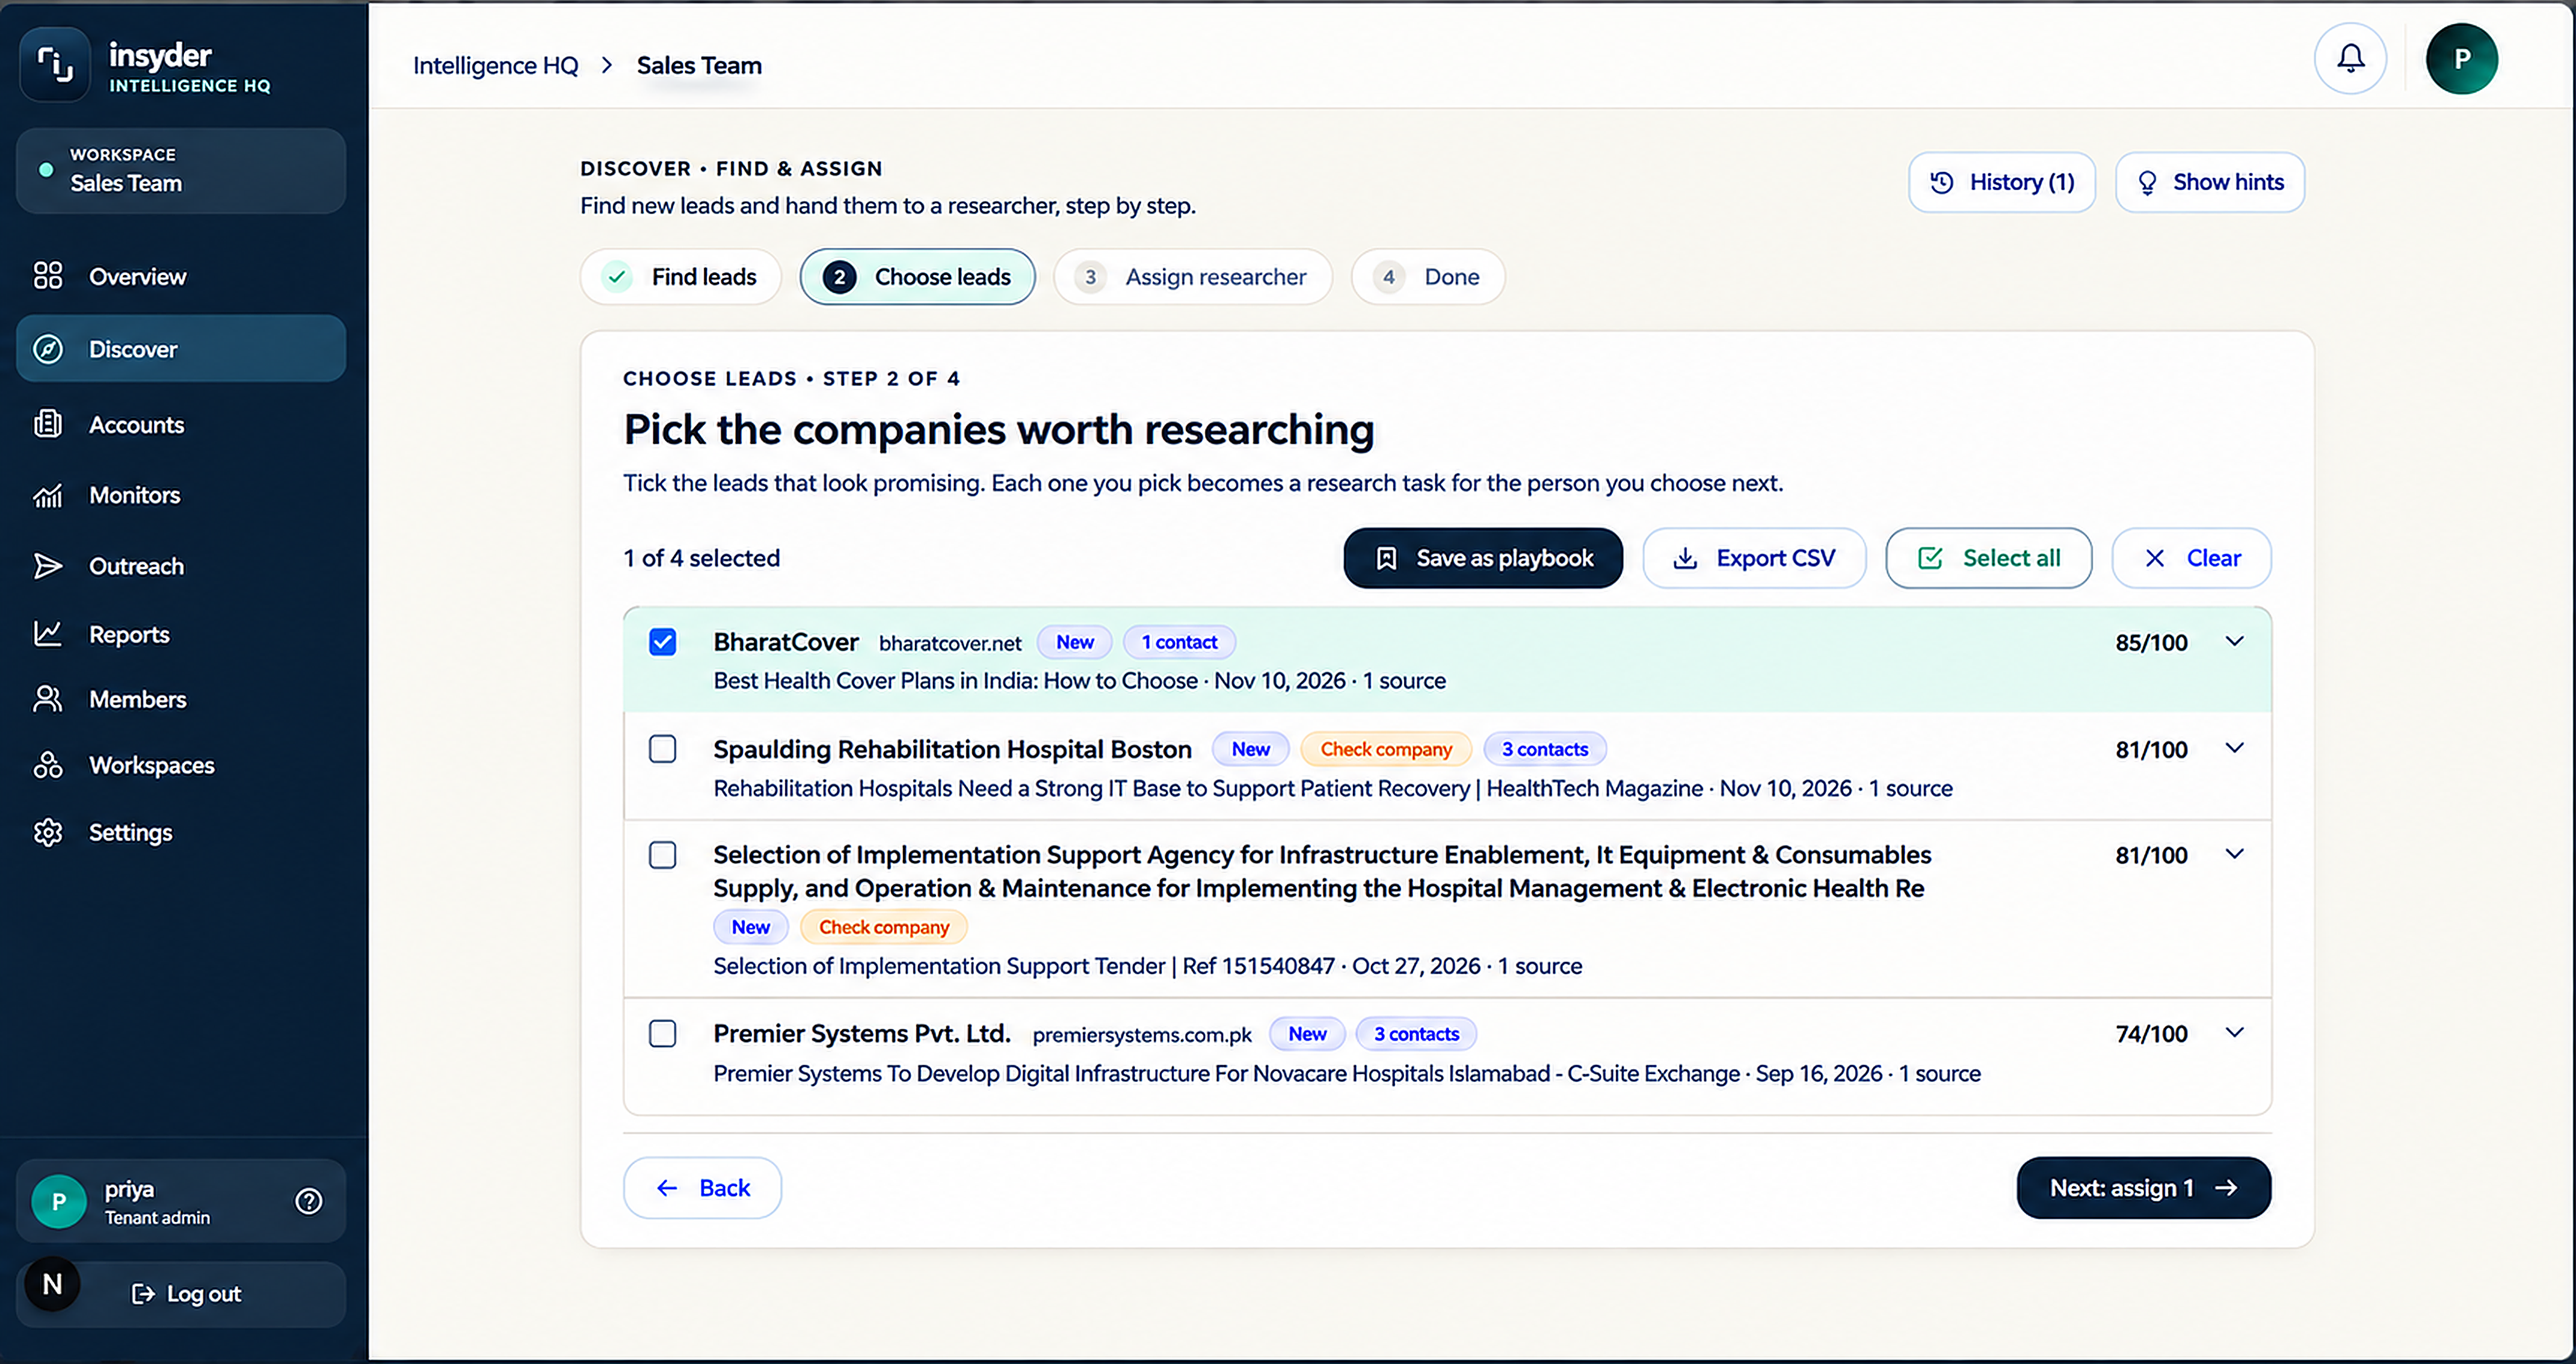
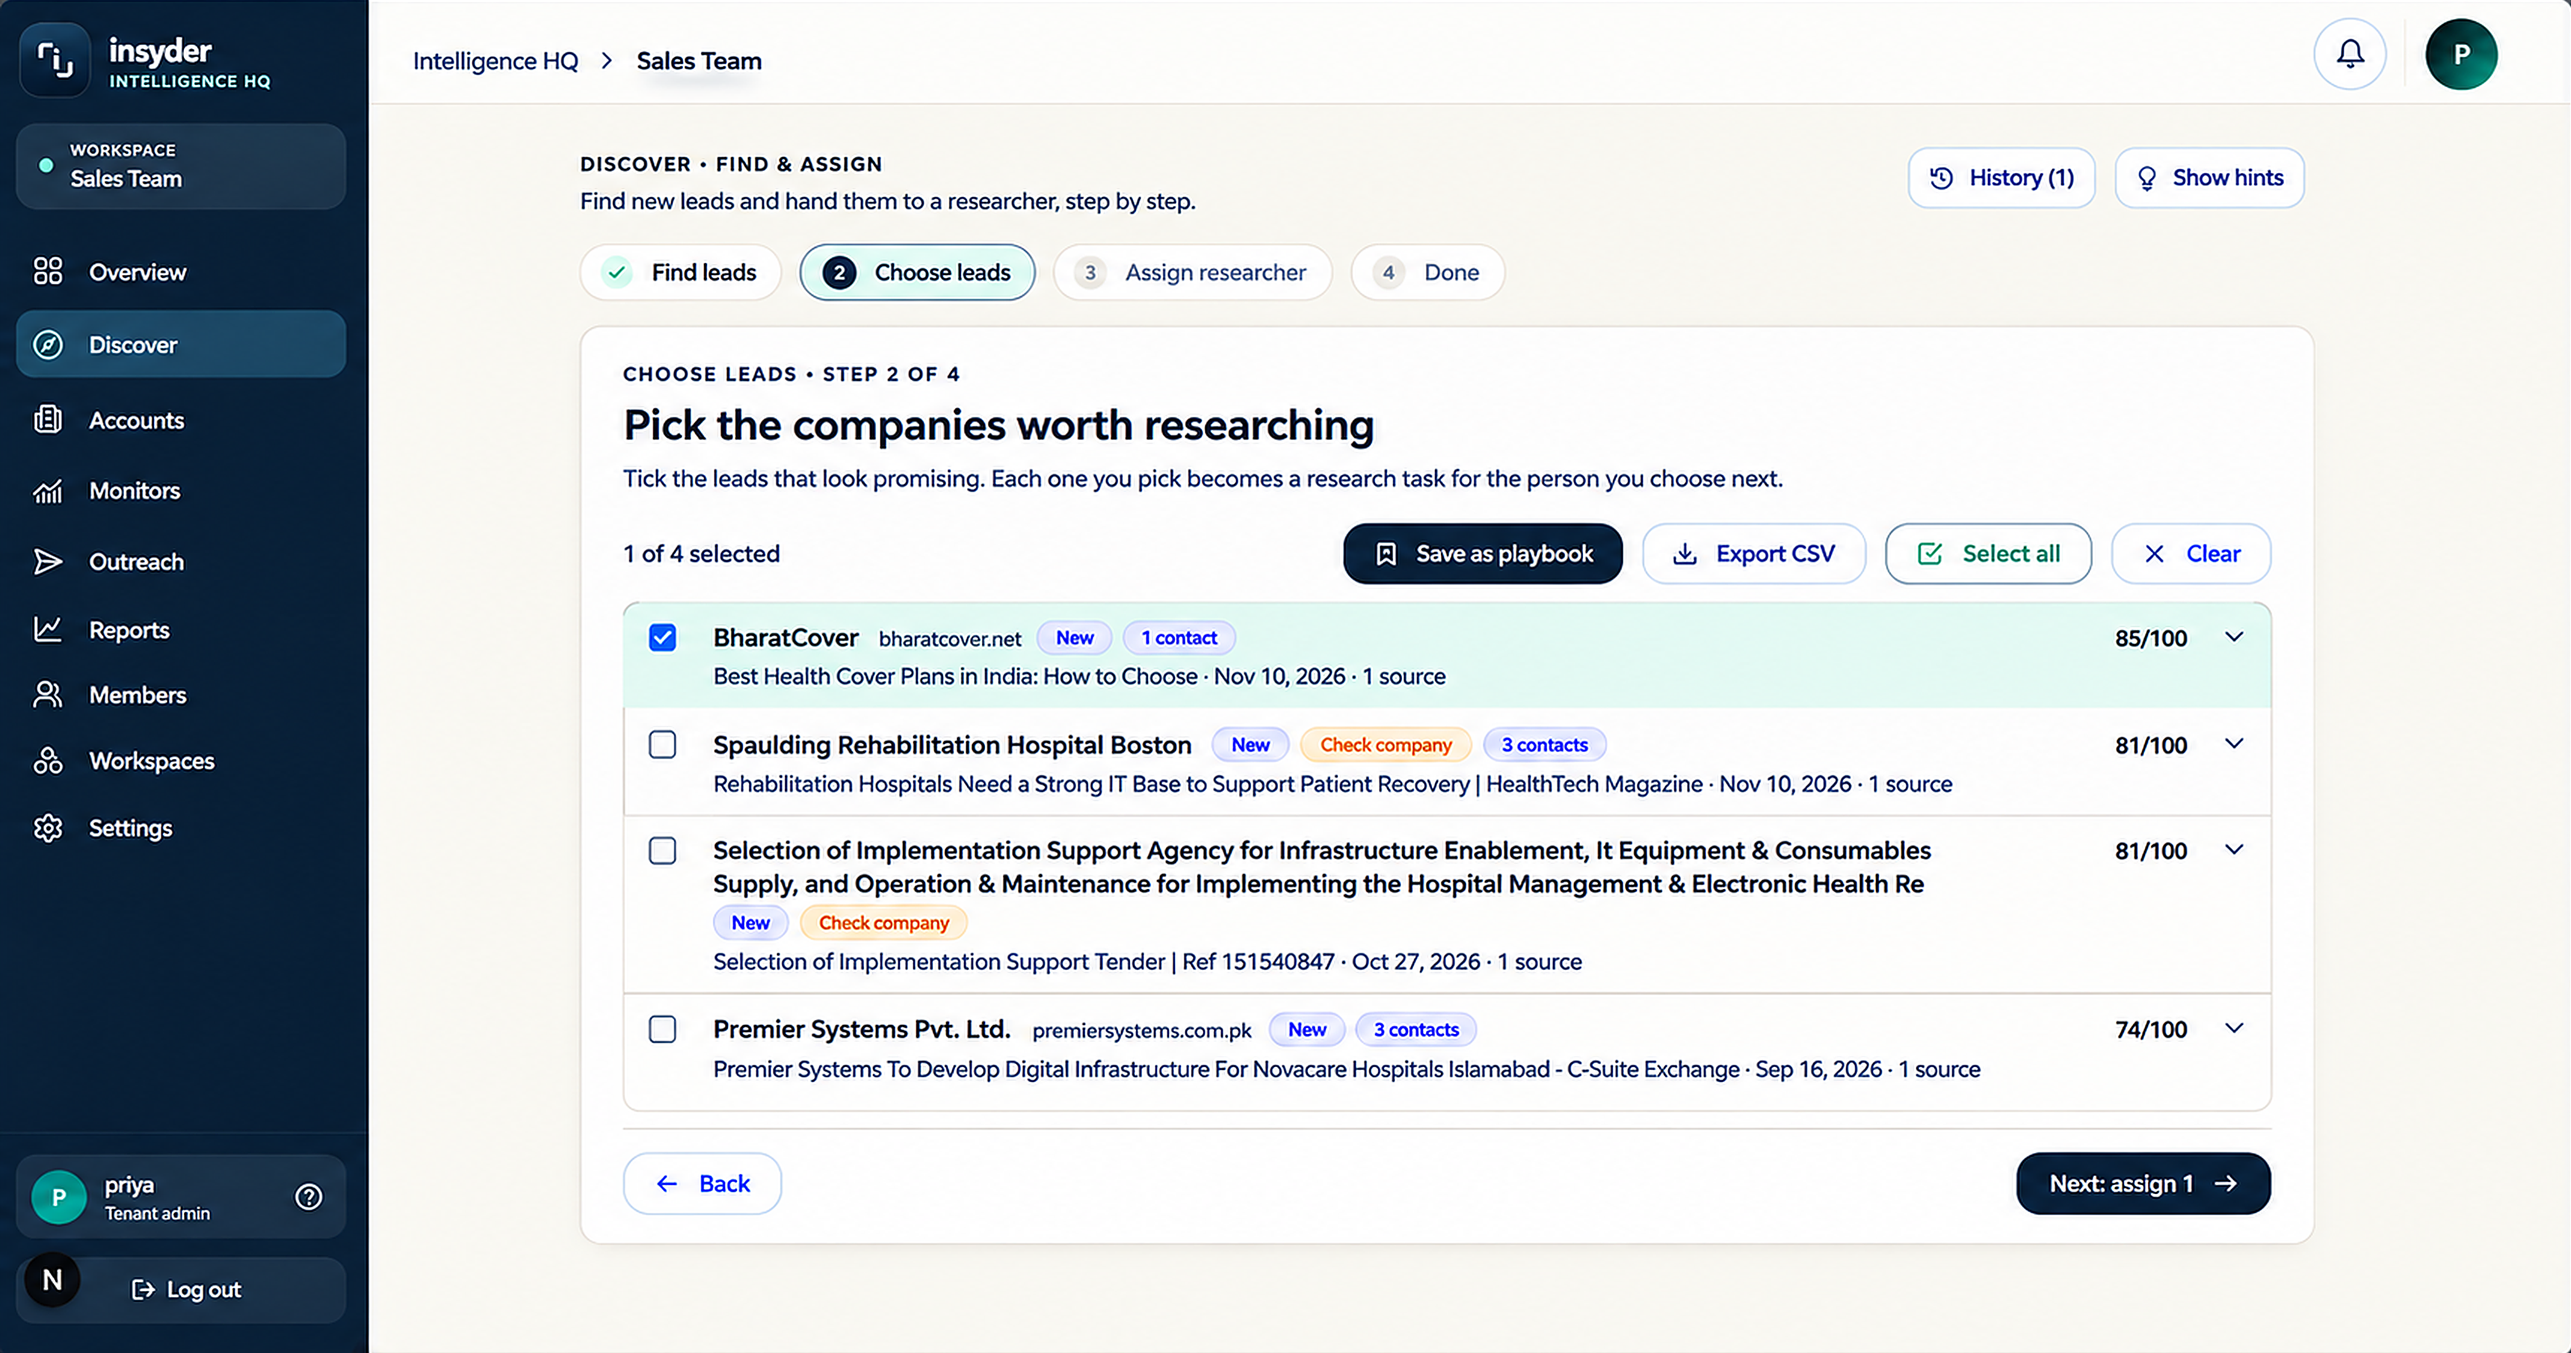
Remove window border lines around discover screenshot

diff --git a/frontend/src/app/globals.css b/frontend/src/app/globals.css
@@ -63,7 +63,7 @@ a{color:#7FD3CB}a:hover{color:#fff}
 .strip li{font-family:var(--font-schibsted),sans-serif;font-weight:700;font-size:21px;letter-spacing:-0.02em;color:#34404F}
 
 /* app frame */
-.frame-wrap{overflow-x:auto;border-radius:14px;box-shadow:0 50px 100px -40px rgba(13,27,42,.6);border:1px solid #CFC7B5;background:#F5F2EA}
+.frame-wrap{overflow:hidden;border-radius:14px;box-shadow:0 50px 100px -40px rgba(13,27,42,.6);border:1px solid #CFC7B5;background:#F5F2EA}
 .dk .frame-wrap{border-color:rgba(255,255,255,.14)}
 .ap{display:grid;grid-template-columns:184px minmax(0,1fr);min-width:1040px;height:560px;font-size:13px;line-height:1.45;color:#0D1B2A}
 .ap.tall{height:600px}

diff --git a/frontend/src/app/page.tsx b/frontend/src/app/page.tsx
@@ -45,8 +45,8 @@ export default function HomePage() {
                 <Image
                   src="/discover.png"
                   alt="Insyder Discover screen, Choose leads step: four companies found, each with its signal, date, sources and a score out of 100, ready to assign to a researcher."
-                  width={3446}
-                  height={1826}
+                  width={3440}
+                  height={1811}
                   sizes="(max-width: 1240px) 100vw, 1200px"
                   priority
                   style={{ display: "block", width: "100%", height: "auto" }}
